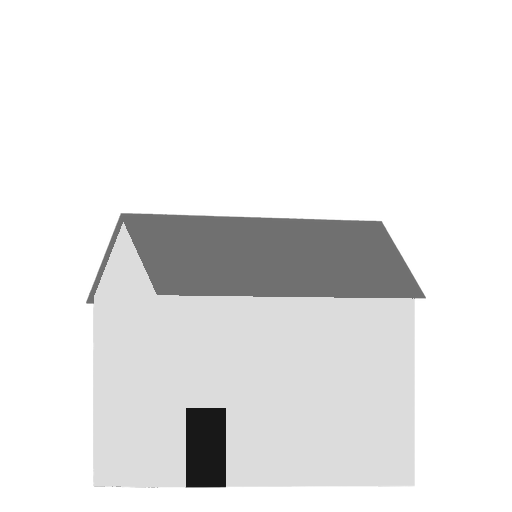
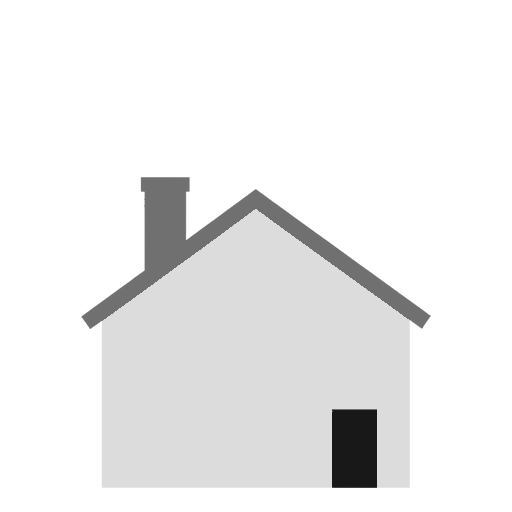
Align village buildings to camera

Changed region(s): [[0.1562, 0.3438, 0.8438, 0.9688], [0.625, 0.7812, 0.75, 0.9688], [0.3438, 0.7812, 0.4688, 0.9688]]

diff --git a/crates/strategic-web/AGENTS.md b/crates/strategic-web/AGENTS.md
@@ -261,6 +261,10 @@ cartoon village, a textured painting, or a detailed model building.
 - Prefer simple gable roofs: two pitched planes meeting at a ridge, like a
   precisely folded sheet of paper. Use hipped or pyramidal roofs sparingly for
   justified variation. A row should be predominantly gabled.
+- Draw every service building as an orthographic front elevation, square to the
+  camera. Center ordinary gable peaks over their facades and keep the two roof
+  slopes visually balanced. Do not show side walls, receding ridges, or
+  three-quarter perspective; silhouette variation must remain front-aligned.
 - Reserve the largest uninterrupted facade field for the overlaid service mark.
   Place doors beside that field, normally at a lower outer corner, rather than
   centered beneath it; this keeps the building low and the mark large.
